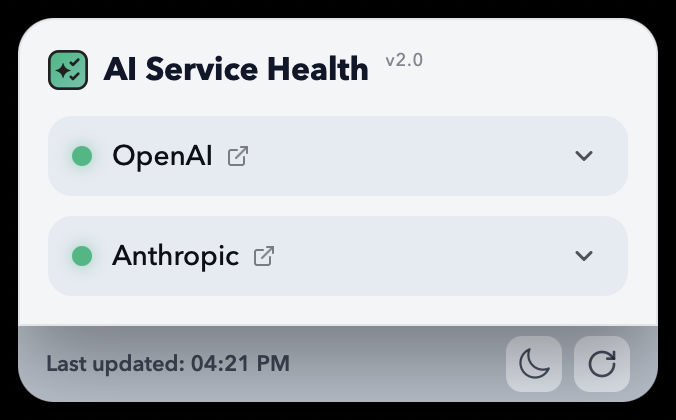
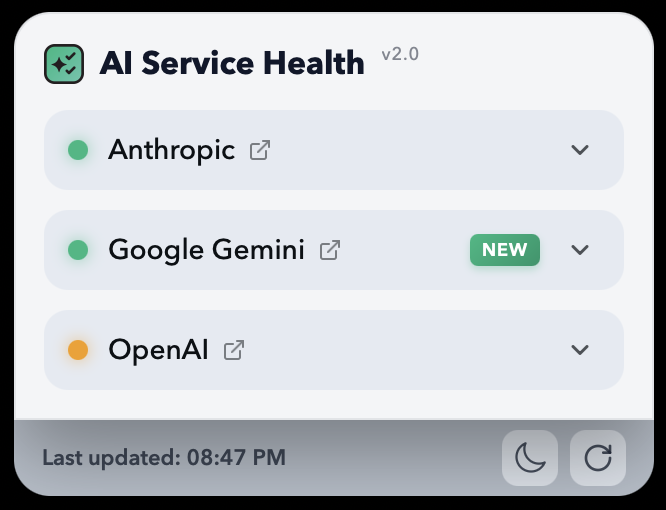
Update README and screenshots for Google Gemini integration
- Update README to include Google Gemini throughout
- Add Google Gemini to monitored services list
- Update data sources to include Google Cloud Status API
- Replace all screenshots showing 3 services with NEW badge
- Reorder services alphabetically in documentation

diff --git a/README.md b/README.md
@@ -3,7 +3,7 @@
   <h1 style="margin: 0;">AI Service Health Widget</h1>
 </div>
 
-A beautiful, feature-rich desktop widget for macOS [Übersicht](https://tracesof.net/uebersicht/) that monitors real-time service health for **OpenAI** and **Anthropic** AI services.
+A beautiful, feature-rich desktop widget for macOS [Übersicht](https://tracesof.net/uebersicht/) that monitors real-time service health for **OpenAI**, **Anthropic**, and **Google Gemini** AI services.
 
 ![Widget Screenshot](https://img.shields.io/badge/macOS-Übersicht-blue?logo=apple)
 ![Version](https://img.shields.io/badge/version-2.0-green)
@@ -11,7 +11,7 @@ A beautiful, feature-rich desktop widget for macOS [Übersicht](https://tracesof
 ## ✨ Features
 
 ### 🎯 Core Functionality
-- **Real-time status monitoring** for OpenAI and Anthropic services
+- **Real-time status monitoring** for OpenAI, Anthropic, and Google Gemini services
 - **Auto-refresh** every 2 minutes with manual refresh option
 - **Live API data** from official status pages
 - **Color-coded indicators** (🟢 Green: Operational, 🟡 Yellow: Issues, 🔴 Red: Outage)
@@ -19,8 +19,9 @@ A beautiful, feature-rich desktop widget for macOS [Übersicht](https://tracesof
 ### 🎨 User Interface
 - **Expandable service details** with smooth animations
 - **Collapsible model groups** for organized viewing:
-  - **OpenAI**: GPT-5.2, GPT-5.x, Codex, Realtime, Audio APIs
   - **Anthropic**: claude.ai, Platform, API, Claude Code
+  - **Google Gemini**: Gemini Code Assist, Gemini Enterprise, Vertex Gemini API
+  - **OpenAI**: GPT-5.2, GPT-5.x, Codex, Realtime, Audio APIs
 - **Visual hierarchy** with three dot sizes (Service → Group → Model)
 - **Rotating chevron icons** for expand/collapse actions
 - **Light/Dark theme toggle** with smooth transitions
@@ -120,12 +121,15 @@ A beautiful, feature-rich desktop widget for macOS [Übersicht](https://tracesof
 
 ## 📊 What's Monitored
 
+### Anthropic Services
+- **Products**: claude.ai, platform.claude.com, Claude API, Claude Code
+
+### Google Gemini Services
+- **Products**: Gemini Code Assist, Gemini Enterprise, Vertex Gemini API
+
 ### OpenAI Services
 - **Model Families**: GPT-5.2, GPT-5.x, Codex, Realtime, Audio
 - **API Services**: Chat Completions, Embeddings, Files, Batch, Fine-tuning, Moderations, Image Generation, Compliance, Search
-
-### Anthropic Services
-- **Products**: claude.ai, platform.claude.com, Claude API, Claude Code
 
 ## 🔧 Configuration
 
@@ -189,8 +193,11 @@ When new models are released (e.g., GPT-6):
 ### Real-Time Status APIs
 - **OpenAI Status**: `https://status.openai.com/api/v2/summary.json`
 - **Anthropic Status**: `https://status.claude.com/api/v2/summary.json`
+- **Google Cloud Status**:
+  - Products: `https://status.cloud.google.com/products.json`
+  - Incidents: `https://status.cloud.google.com/incidents.json`
 
-Both use the Statuspage API format for real-time service health data.
+OpenAI and Anthropic use the Statuspage API format. Google uses an incident-based format from Google Cloud Status.
 
 ### Model Configuration
 - **Model Lists**: `https://raw.githubusercontent.com/d4vid4nderson/ai-status-widget/main/models.json`
